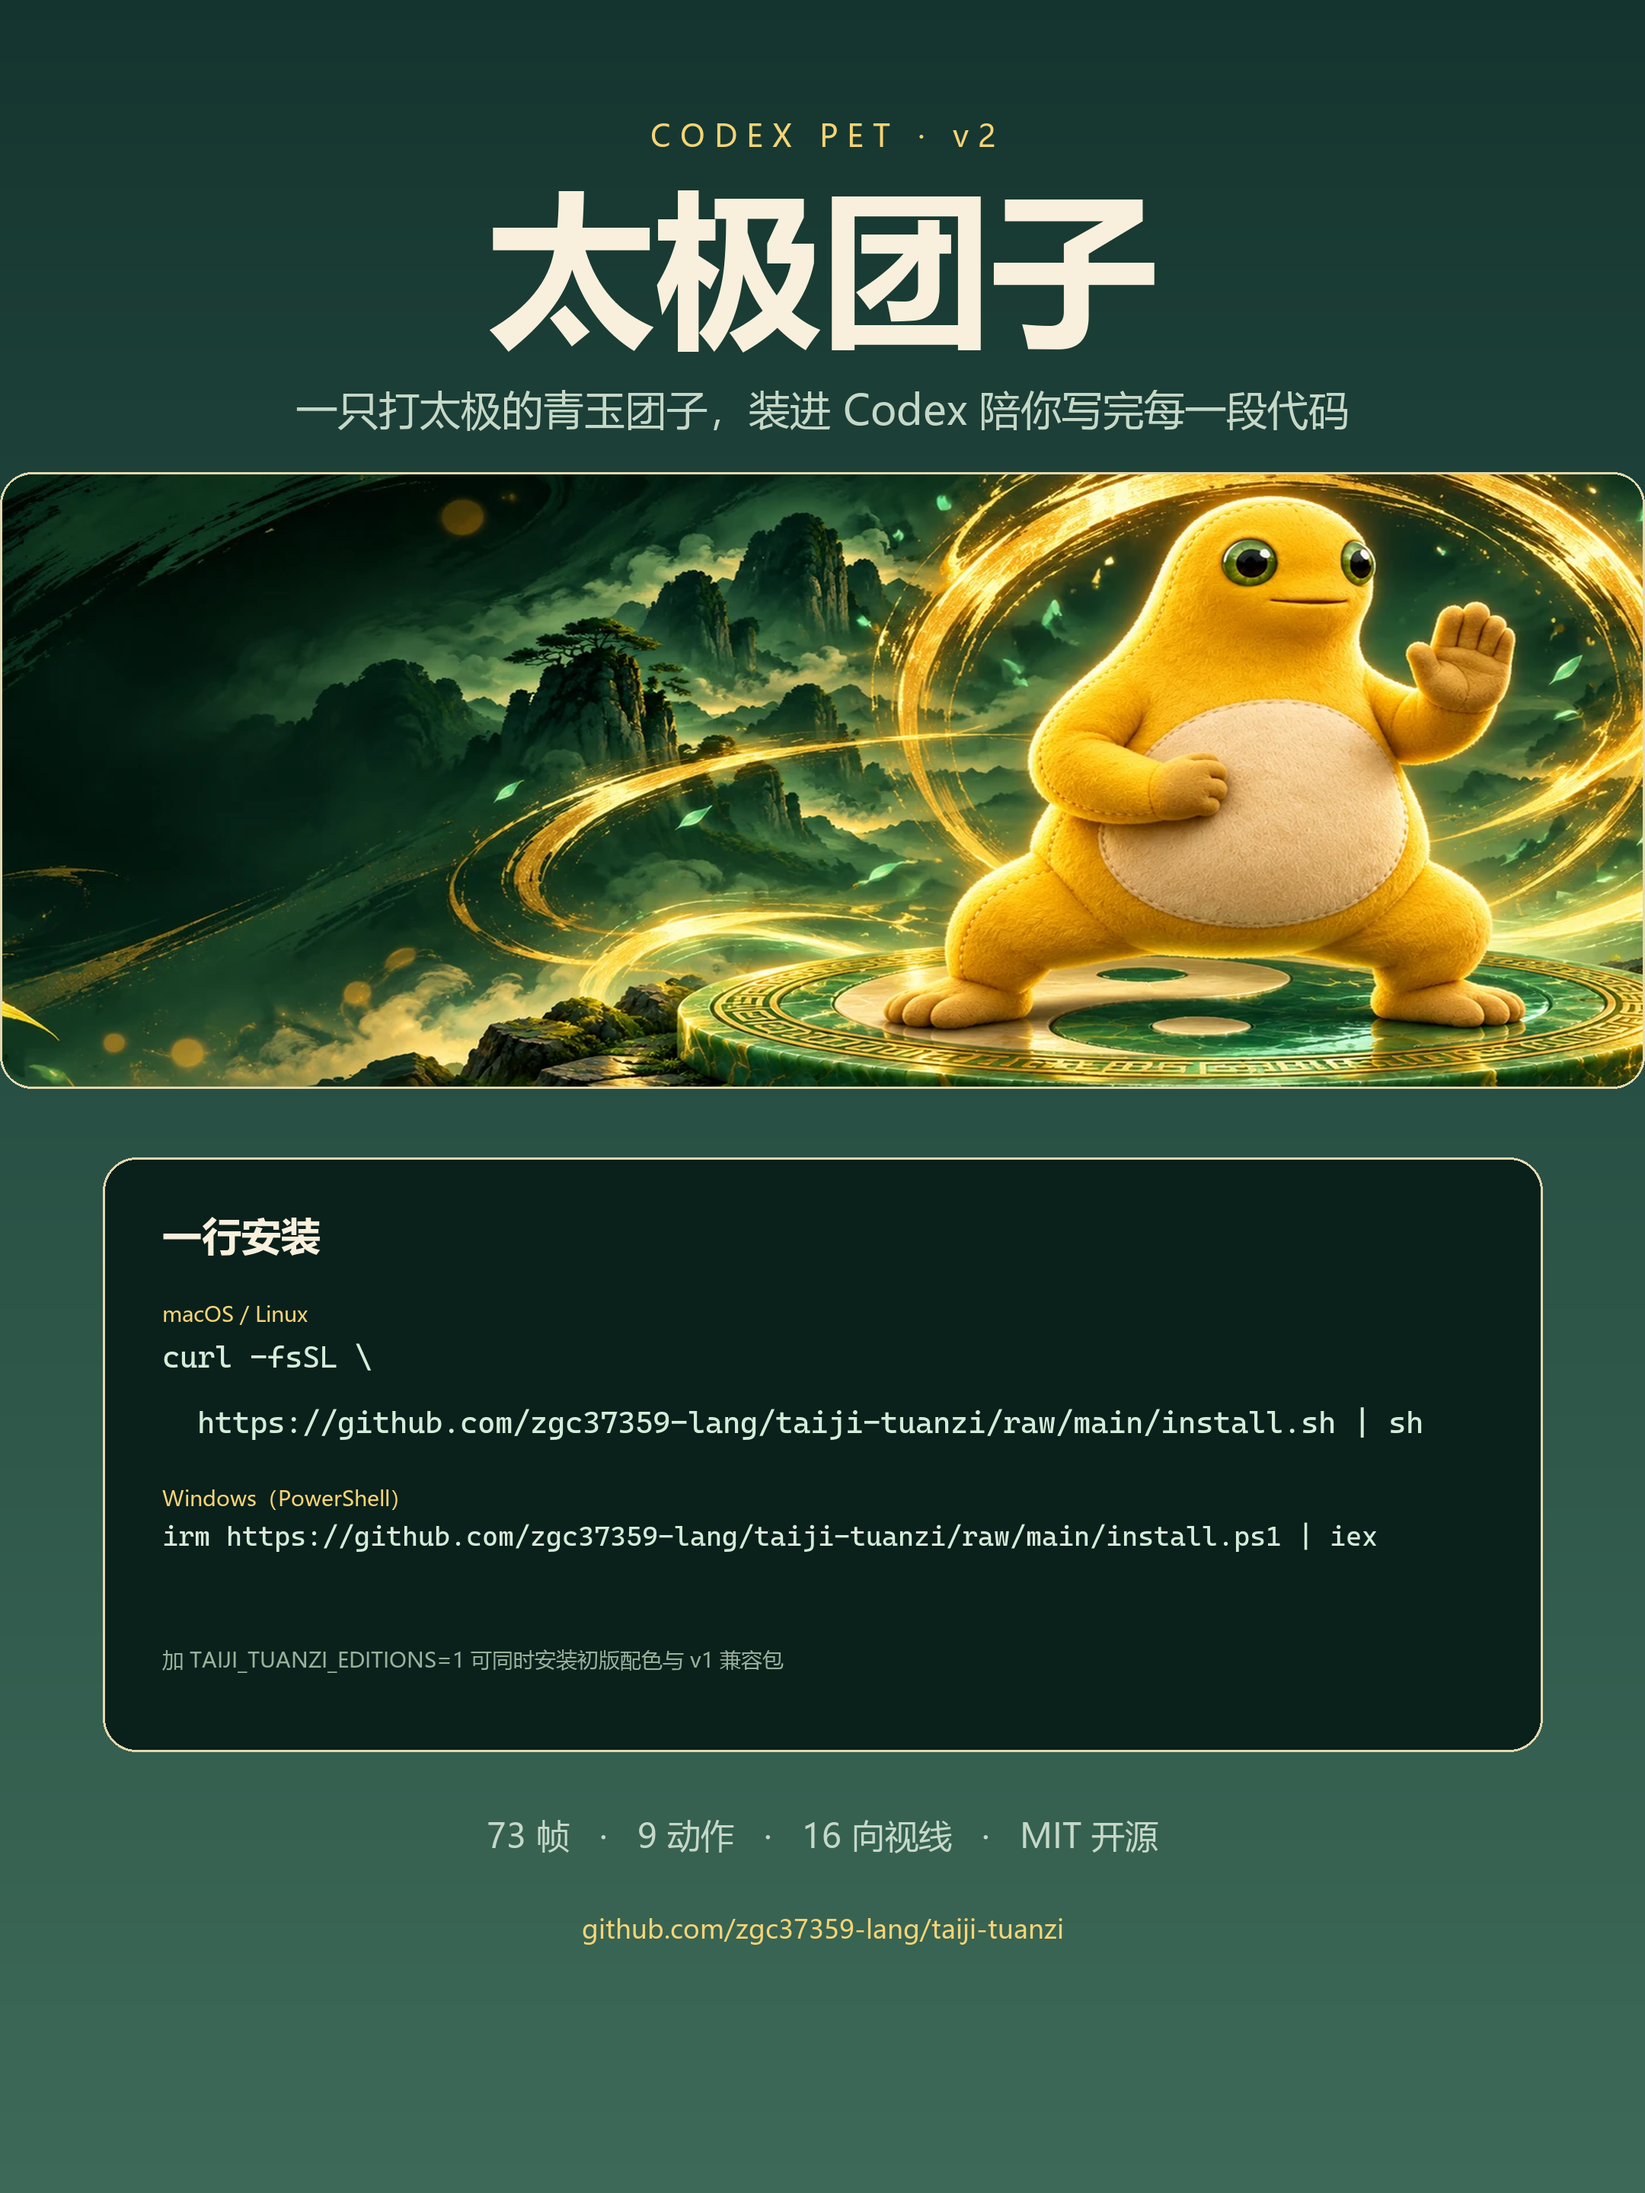
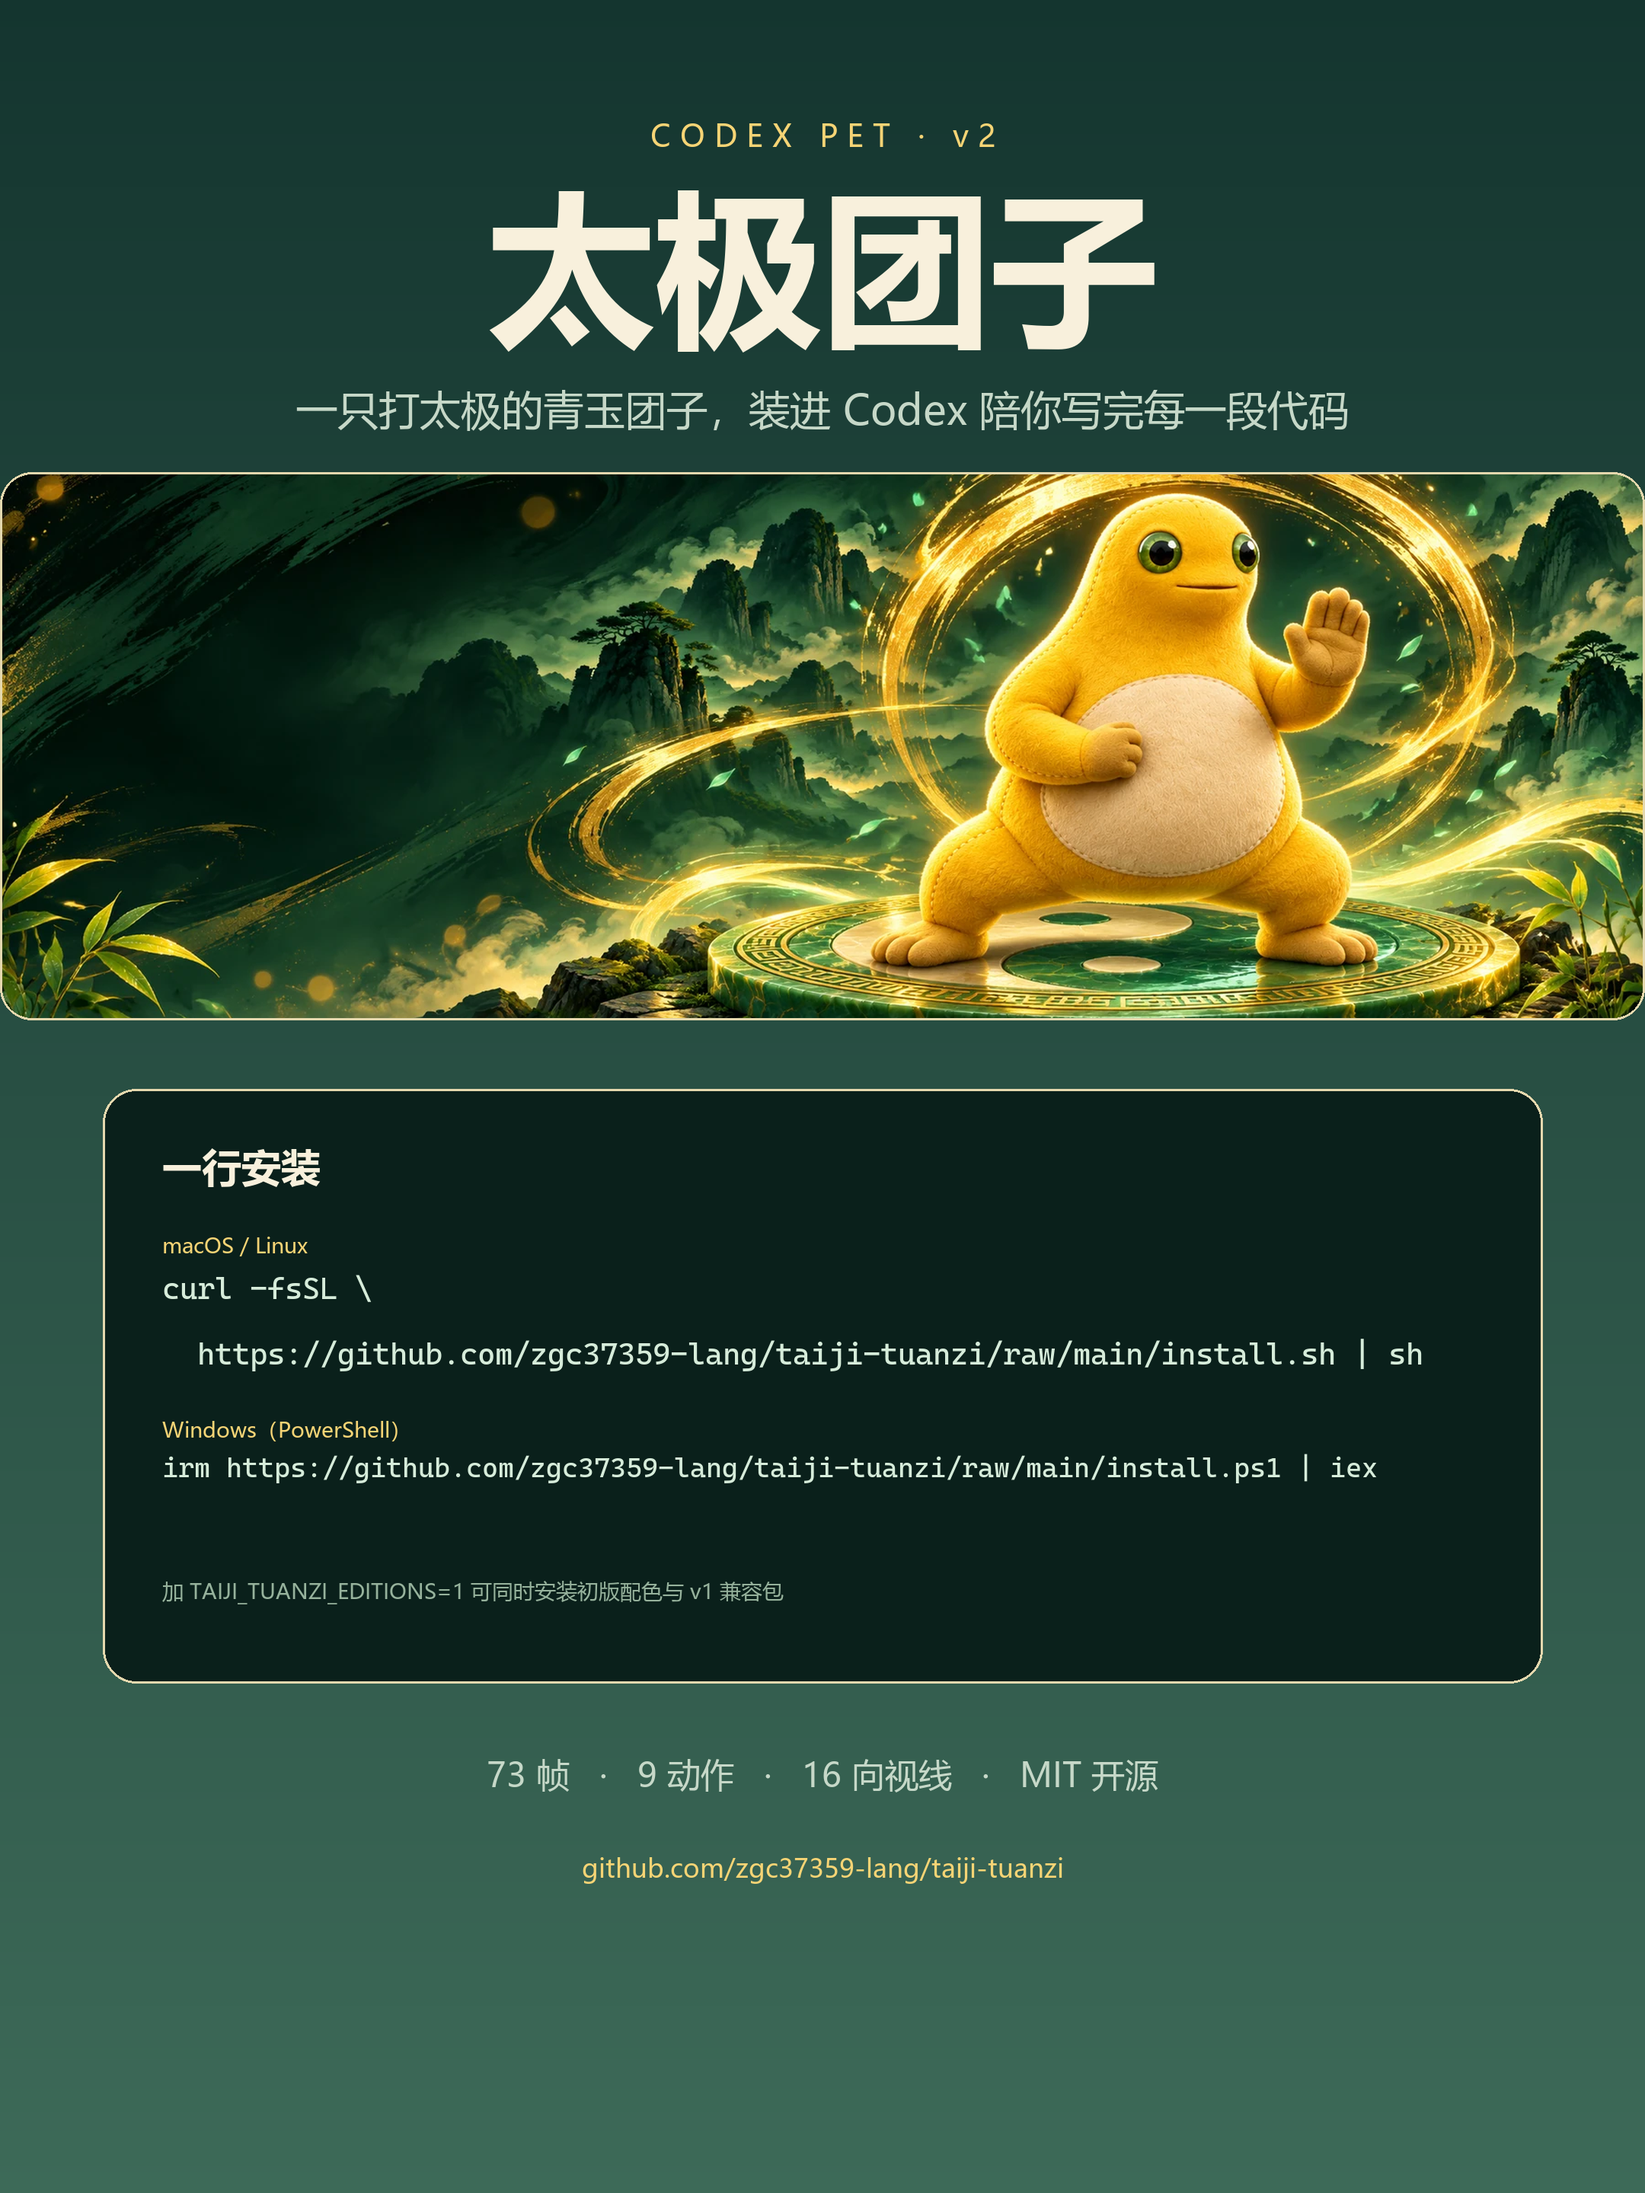
fix: 修正分享图横幅横向拉伸变形
BANNER_ZOOM 分支把宽度乘了 BANNER_H/target_h 而高度不变，
导致 2430→2734 的横向拉伸（12.5%）。
改为严格等比缩放到 2160×720 完整显示，并加入比例自检。

diff --git a/scripts/build-share-image.py b/scripts/build-share-image.py
@@ -34,9 +34,8 @@ CURL = [
 PS1 = "irm " + BASE + "/install.ps1 | iex"
 
 BANNER_Y = 620
-BANNER_H = 810
+BANNER_H = 720
 BANNER_RADIUS = 42
-BANNER_ZOOM = 1.35
 
 
 def gradient(size, top, bottom):
@@ -67,27 +66,25 @@ def centered(draw, y, text, font, fill):
 
 
 def build_banner():
-    """等比放大后居中裁切，避免直接裁掉原图两侧的主体。"""
+    """严格等比缩放到画布宽度，不裁切、不拉伸。"""
     cover = Image.open(COVER).convert("RGB")
-    zoomed = cover.resize(
-        (round(cover.width * BANNER_ZOOM), round(cover.height * BANNER_ZOOM)),
-        Image.LANCZOS,
-    )
-    # 目标横幅高度由宽度推出来，防止比例失真
-    target_h = round(W * zoomed.height / zoomed.width)
-    if target_h < BANNER_H:
-        zoomed = zoomed.resize((round(zoomed.width * BANNER_H / target_h), BANNER_H), Image.LANCZOS)
-        target_h = BANNER_H
-    left = max(0, (zoomed.width - W) // 2)
-    top = max(0, (zoomed.height - target_h) // 2)
-    banner = zoomed.crop((left, top, left + W, top + target_h)).convert("RGBA")
+    width = W
+    height = round(cover.height * width / cover.width)
+    banner = cover.resize((width, height), Image.LANCZOS).convert("RGBA")
     if banner.height != BANNER_H:
         banner = banner.resize((W, BANNER_H), Image.LANCZOS)
+    # 自检：缩放后宽高比必须与原图一致，差值超过 0.5% 视为变形
+    source_ratio = cover.width / cover.height
+    result_ratio = banner.width / banner.height
+    if abs(source_ratio - result_ratio) / source_ratio > 0.005:
+        raise SystemExit(
+            f"横幅比例失真：原图 {source_ratio:.3f}，结果 {result_ratio:.3f}"
+        )
     mask = Image.new("L", banner.size, 0)
     ImageDraw.Draw(mask).rounded_rectangle(
         [(0, 0), (banner.width - 1, banner.height - 1)], radius=BANNER_RADIUS, fill=255
     )
-    return banner, mask
+    return banner, mask, source_ratio
 
 
 def main():
@@ -107,7 +104,7 @@ def main():
     centered(draw, 200, "太极团子", title_font, INK)
     centered(draw, 500, "一只打太极的青玉团子，装进 Codex 陪你写完每一段代码", sub_font, SUB)
 
-    banner, mask = build_banner()
+    banner, mask, ratio = build_banner()
     canvas.paste(banner, (0, BANNER_Y), mask)
     draw.rounded_rectangle(
         [(0, BANNER_Y), (W - 1, BANNER_Y + BANNER_H - 1)],
@@ -116,7 +113,7 @@ def main():
         width=3,
     )
 
-    card_x, card_y, card_w, card_h = 135, 1520, W - 270, 780
+    card_x, card_y, card_w, card_h = 135, 1430, W - 270, 780
     draw.rounded_rectangle(
         [(card_x, card_y), (card_x + card_w, card_y + card_h)],
         radius=44,
@@ -146,8 +143,8 @@ def main():
         fill=MUTED,
     )
 
-    centered(draw, 2380, "73 帧   ·   9 动作   ·   16 向视线   ·   MIT 开源", feet_font, SUB)
-    centered(draw, 2510, "github.com/zgc37359-lang/taiji-tuanzi", foot_font, GOLD)
+    centered(draw, 2300, "73 帧   ·   9 动作   ·   16 向视线   ·   MIT 开源", feet_font, SUB)
+    centered(draw, 2430, "github.com/zgc37359-lang/taiji-tuanzi", foot_font, GOLD)
 
     OUT_DIR.mkdir(parents=True, exist_ok=True)
     big = OUT_DIR / "vertical-2160x2880.png"
@@ -157,7 +154,7 @@ def main():
     small = OUT_DIR / "vertical-1080x1440.png"
     canvas.convert("RGB").resize((1080, 1440), Image.LANCZOS).save(small, "PNG", optimize=True)
 
-    print(f"横幅：{banner.width}×{banner.height} @ y={BANNER_Y}（原图放大 {BANNER_ZOOM}× 后居中裁切）")
+    print(f"横幅：{banner.width}×{banner.height} @ y={BANNER_Y}（原图比例 {ratio:.3f}，结果比例 {banner.width / banner.height:.3f}）")
     print(f"命令字号：curl {mono_font.size}px（宽 {mono_font.getlength(CURL[1]):.0f}px / 上限 {inner:.0f}px）")
     print(f"           ps1 {ps_font.size}px（宽 {ps_font.getlength(PS1):.0f}px）")
     for path in (big, jpg, small):
